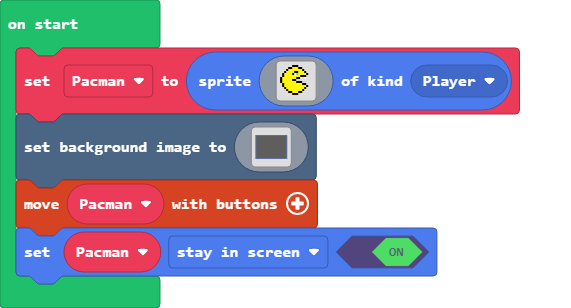
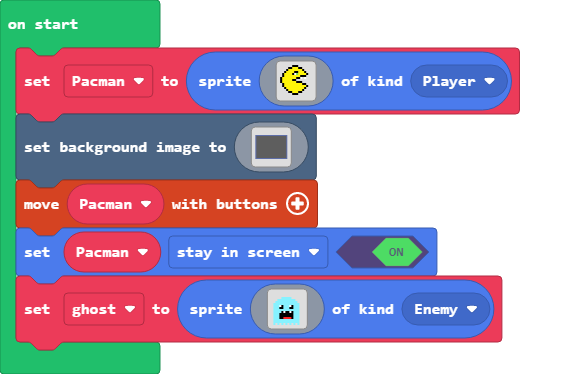
Update main.blocks, main.ts

diff --git a/main.ts b/main.ts
@@ -140,3 +140,21 @@ scene.setBackgroundImage(img`
     `)
 controller.moveSprite(Pacman)
 Pacman.setFlag(SpriteFlag.StayInScreen, true)
+let ghost = sprites.create(img`
+    . . . . . . . . . . . . . . . . 
+    . . . . . . . . . . . . . . . . 
+    . . . . . 9 9 9 9 9 . . . . . . 
+    . . . 9 9 9 9 9 9 9 9 9 . . . . 
+    . . 9 9 9 9 9 9 9 9 9 9 9 . . . 
+    . 9 9 9 9 9 9 9 9 9 9 9 9 9 . . 
+    . 9 9 9 1 f 9 9 9 1 f 9 9 9 . . 
+    . 9 9 9 f f 9 9 9 f f 9 9 9 . . 
+    . 9 9 9 9 9 9 9 9 9 9 9 9 9 . . 
+    . 9 9 9 9 f 1 f f 1 f 9 9 9 . . 
+    . 9 9 9 f f f f f f f 9 9 9 . . 
+    . 9 9 9 f f f f f f f 9 9 9 . . 
+    . 9 9 9 f f 2 2 2 2 f 9 9 9 . . 
+    . 9 9 9 9 9 9 9 9 9 9 9 9 9 . . 
+    . 9 9 9 9 9 9 9 9 9 9 9 9 9 . . 
+    . 9 . 9 . 9 . 9 . 9 . 9 . 9 . . 
+    `, SpriteKind.Enemy)
